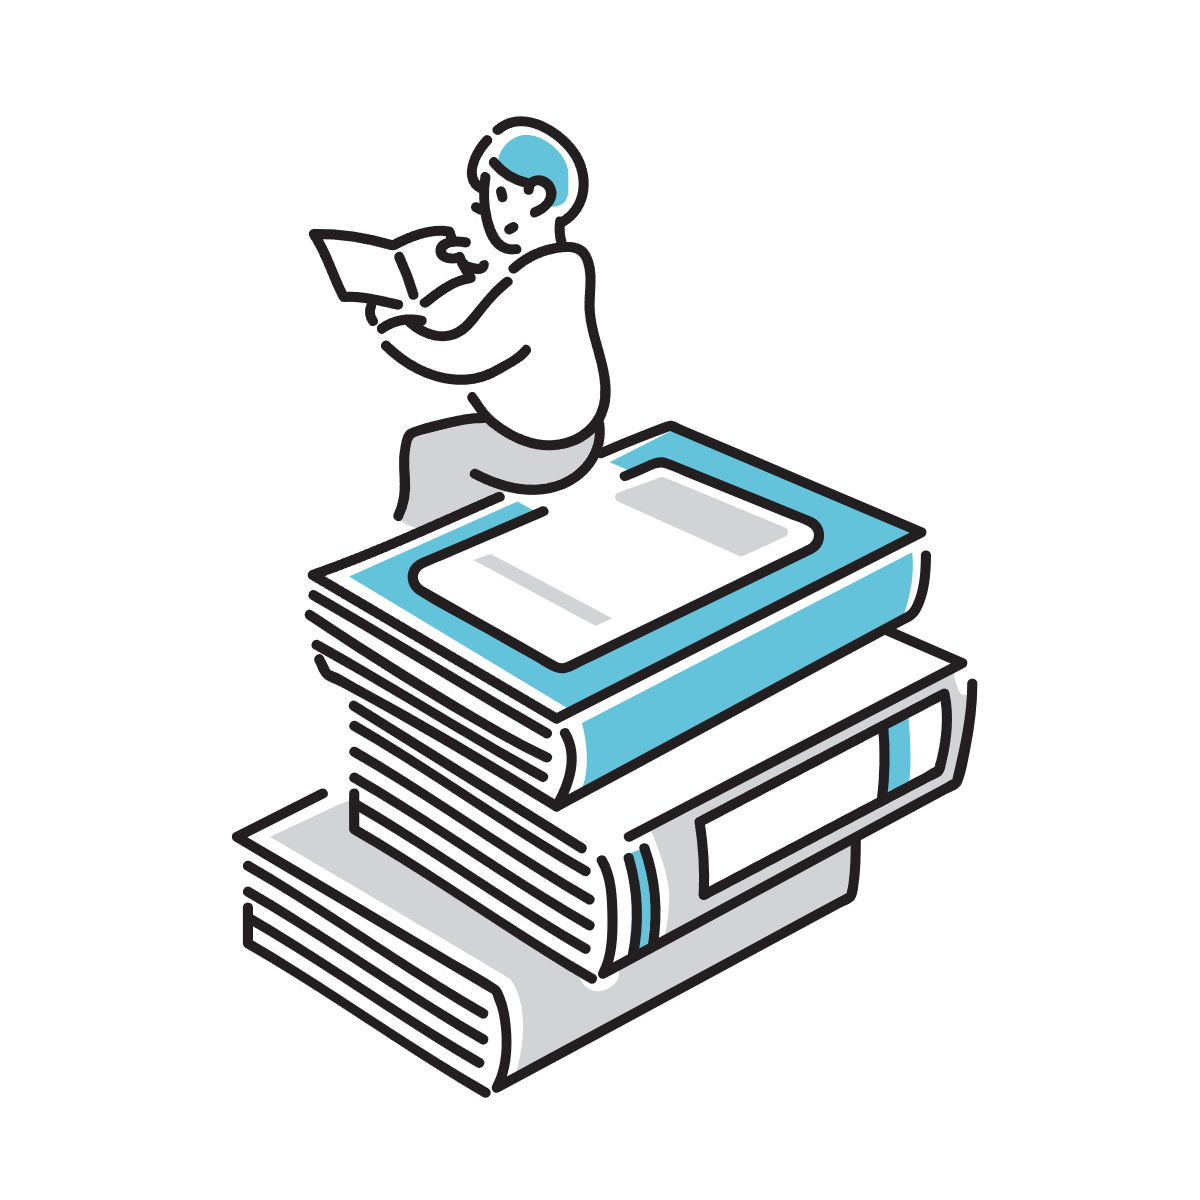
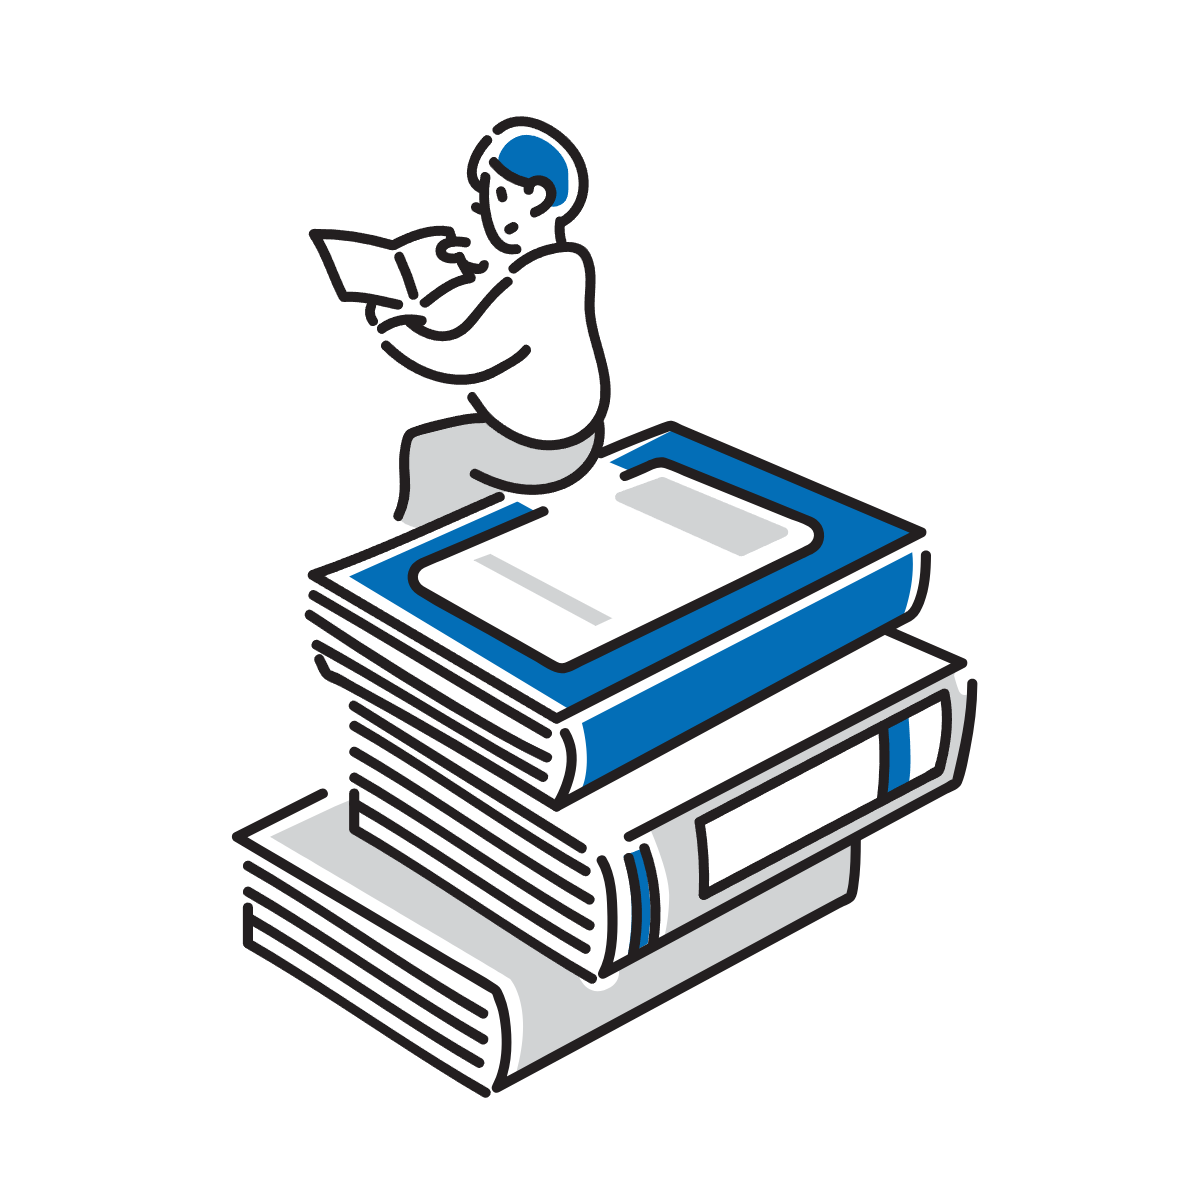
feat: Complete education section - changed assets - recreated Education & About sections for mobile responsiveness - changed asset colors to fit the color palette

diff --git a/src/lib/components/EducationSection.svelte b/src/lib/components/EducationSection.svelte
@@ -1,45 +1,52 @@
 <script>
     import Section from "$lib/components/Section.svelte";
     import EducationCard from "./EducationCard.svelte";
-    import Image from "$lib/assets/illust/loosedrawing/1150.png?w=450&h=400&format=webp"
+    import DLSUImage from "$lib/assets/schools/dlsu.png?w=300&h=300&format=webp";
+    import CKSCImage from "$lib/assets/schools/cksc.png?w=300&h=300&format=webp";
+    import StudentImage from "$lib/assets/illust/loosedrawing/1150.png?w=500&h=600&format=webp";
 
     let educationDetails = [{
             school: "De La Salle University Manila",
-            time: "2019-2023",
-            degree: "B.S. in Computer Science Major in Software Technology",
-            type: "tertiary",
-            color: "green",
+            address: "2401 Taft Ave, Malate, Manila, 1004 Metro Manila",
+            time: "Sept 2019 - Dec 2023",
+            degree: "Bachelor of Science in Computer Science",
+            major: "Major in Software Technology",
+            image: DLSUImage,
+            color: "green-600",
         }, {
             school: "Chiang Kai Shek College",
-            time: "2008-2019",
-            degree: "Gradeschool, Junior & Senior Highschool",
-            type: "secondary",
-            color: "blue",
+            address: "1477 Narra St, Tondo, Manila, 1012 Metro Manila",
+            time: "2014 - Apr 2019",
+            degree: "Senior Highschool Diploma",
+            major: "STEM Graduate",
+            image: CKSCImage,
+            color: "blue-500",
+        }, {
+            school: "Chiang Kai Shek College",
+            address: "1274 Padre Algue St, Tondo, Manila, 1012 Metro Manila",
+            time: "2008 - 2013",
+            degree: "Gradeschool, Junior Highschool Diplomas",
+            major: "",
+            image: CKSCImage,
+            color: "blue-500",
         }
     ];
 </script>
 
 <Section id="education">
-    <div class="h-fit w-full pt-16 pb-8 bg-bunker-950">
-        <h1 class="h-fit w-full pt-8 pb-16 text-center text-4xl font-bold text-white">Education</h1>
-        <div class="h-fit w-full flex justify-center">
-
-            <div class="flex flex-col items-center pr-20">
-                {#each educationDetails as educationDetail} 
-                    <EducationCard {educationDetail}/>
-                 {/each}
-            </div>
-
-            <div class="justify-center items-center hidden lg:flex">
-                <img class="bg-white ml-16 shadow-lg rounded-lg" src={Image} alt="Education">
-            </div>
-
+    <div class="h-auto w-screen py-16">
+        <div class="bg-matisse-500 flex justify-center opacity-90" data-aos="fade-up" data-aos-offset="300">
+            <h1 class="p-5 text-center text-4xl font-bold text-white">Education</h1>
         </div>
-    </div>
+        <div class="flex lg:grid flex-col grid-cols-7 gap-8">  
+            <div class="col-span-2 col-start-2 flex justify-center items-center">
+                <img class="shadow-sm p-4" src={StudentImage} alt="Student" data-aos="fade-up" data-aos-delay="100" data-aos-offset="300">
+            </div>
+            <div class="col-span-4 flex flex-col justify-center items-center xl:items-start p-8">
+                {#each educationDetails as educationDetail, i} 
+                    <EducationCard {educationDetail} delay={i}/>
+                {/each}
+            </div>
+        </div>
+    </div> 
 </Section>
-
-<style>
-    /* div {
-        border: 4px dotted red;
-    } */
-</style>

diff --git a/src/lib/components/AboutSection.svelte b/src/lib/components/AboutSection.svelte
@@ -5,19 +5,18 @@
 </script>
 
 <Section id="about">
-    <div class="pt-16 h-fit w-fit bg-white">
-        <div class="lg:h-[65vh] sm:h-fit w-full lg:grid sm:flex lg:grid-rows-1 lg:grid-cols-7 sm:flex-col-reverse lg:border-t-4 lg:border-b-4 mb-8 border-dotted border-gray-400">
-            <div class="h-full col-span-2 col-start-2 flex justify-center items-center sm:mt-4">
-                <img class="rounded-lg shadow-md" src={Image} alt="test">
-            </div>
-            <div class="h-full col-span-4 flex flex-col flex-end justify-center items-left">
-                <h1 class="h-fit w-3/4 p-4 ml-16 border-b-4 text-4xl text-left font-bold" data-aos="fade-up">About Me</h1>
-                <p class="h-fit w-3/4 ml-16 p-4 text-gray-700" data-aos="fade-up" data-aos-delay="250">
-                    Hello! I'm a dedicated developer passionate about crafting exceptional digital experiences. 
-                    With expertise in both front-end and back-end technologies, I thrive on challenges and value collaboration. 
-                    Let's create something amazing together!
-                </p>
-            </div>  
+    <div class="flex flex-col md:flex-row justify-center items-center py-16">
+        <img class="h-auto md:h-64 lg:h-auto m-8" src={Image} alt="test">
+        <div class="h-fit w-auto lg:w-[40vw] mx-4 lg:ml-16 lg:mr-8 my-8">
+            <h1 class="p-4 text-4xl text-left font-bold border-b-4" data-aos="fade-up">About Me</h1>
+            <p class="p-4 text-gray-700" data-aos="fade-up" data-aos-delay="250">
+               Hello! I'm a dedicated developer passionate about crafting exceptional digital experiences. 
+               With expertise in both front-end and back-end technologies, I thrive on challenges and value collaboration. 
+               Let's create something amazing together! asdasdasasd asdas dasd asd as dass
+            </p>
+            <p class="px-4 pb-4 text-gray-700" data-aos="fade-up" data-aos-delay="350"> 
+                I have have experience in blah blah blah...
+            </p>
         </div>
     </div>
 </Section>

diff --git a/src/lib/components/EducationCard.svelte b/src/lib/components/EducationCard.svelte
@@ -1,20 +1,18 @@
 <script>
-    import DLSUImage from "$lib/assets/schools/dlsu.png?w=250&h=250&format=webp";
-    import CKSCImage from "$lib/assets/schools/cksc.png?w=250&h=250&format=webp"
-
+    export let delay = 1;
     export let educationDetail;
+    delay = delay * 150;
 </script>
 
-<div class="flex flex-col my-2 items-center border border-gray-200 rounded-lg shadow md:flex-row md:max-w-xl hover:bg-gray-200 bg-white" data-aos="fade-up" data-aos-delay="250">
-    <div class="flex flex-col justify-between p-4 leading-normal w-96">
-        <h5 class="mb-2 text-2xl font-bold tracking-tight">{educationDetail.school}</h5>
-        <p class="mb-2">{educationDetail.time}</p>
-        <p class="mb-2">{educationDetail.degree}</p>
+<div class="w-full lg:w-3/5 bg-white rounded-tr-3xl rounded-bl-xl shadow-lg mb-4 border-t-8 border-{educationDetail.color}" data-aos="fade-right" data-aos-delay={delay} data-aos-offset="300">
+    <div class="flex flex-col p-4 w-full">
+        <div class="flex justify-between">
+            <h5 class="text-xl font-bold">{educationDetail.school}</h5>
+            <img class="max-h-8 max-w-8 pointer-events-none select-none" src={educationDetail.image} alt="icon">
+        </div>
+        <!-- <p class="text-gray-600 mt-2">{educationDetail.address}</p> -->
+        <p class="text-gray-600 mb-2">{educationDetail.time}</p>
+        <p class="text-gray-600">{educationDetail.degree}</p>
+        <p class="text-gray-600">{educationDetail.major}</p>
     </div>
-
-    {#if educationDetail.type === 'tertiary'}
-        <img class="object-cover w-full rounded-t-lg h-80 md:h-auto md:w-48 md:rounded-none md:rounded-s-lg" src={DLSUImage} alt="De La Salle University">
-    {:else}
-        <img class="object-cover w-full rounded-t-lg h-80 md:h-auto md:w-48 md:rounded-none md:rounded-s-lg" src={CKSCImage} alt="Chiang Kai Shek College">
-    {/if}
-</div>  
+</div>

diff --git a/src/lib/components/NavButton.svelte b/src/lib/components/NavButton.svelte
@@ -1,13 +1,15 @@
 <script>
-     export let isMenu = false;
-     export let data;
+    export let open;
+    export let isMenu = false;
+    export let data;
+
+    function toggleMenu() { open = !open; };
 </script>
 
 {#if isMenu}
-    <a class="h-full w-auto p-4 rounded-sm text-left hover:bg-gray-200 active:bg-gray-300 active:-translate-y-0.5 active:font-bold active:border-l-blue-500 border-l-4 bg-white opacity-95" href={data.link}>{data.title}</a>
+    <a class="h-full w-auto p-4 rounded-sm text-left hover:bg-gray-200 active:bg-gray-300 active:-translate-y-0.5 active:font-bold active:border-l-blue-500 border-l-4 bg-white opacity-95" href={data.link} on:click={toggleMenu}>{data.title}</a>
 {:else}
     <a class="h-full w-auto p-4 rounded-sm text-center hover:bg-gray-200 active:bg-gray-300 active:-translate-y-0.5 active:font-bold" href={data.link}>{data.title}</a>
 {/if}
-
 
 

diff --git a/src/lib/components/LeadSection.svelte b/src/lib/components/LeadSection.svelte
@@ -4,7 +4,7 @@
 </script>
 
 <Section id="lead">
-    <div class="bg-illia-plakhuta bg-cover bg-center h-[50vh] xl:h-screen">
+    <div class="bg-illia-plakhuta bg-cover bg-center h-[60vh] xl:h-screen">
         <div class="h-full w-auto flex flex-col justify-center items-center">
             <h1 class="text-white text-4xl md:text-6xl lg:text-8xl my-2 animate-fade-up animate-ease-out animate-delay-[100ms] font-bold">Steven Castro</h1>
             <h2 class="text-white text-2xl md:text-3xl lg:text-4xl mb-4 animate-fade-up animate-ease-out animate-delay-[250ms]">Programmer</h2>
@@ -12,13 +12,3 @@
         </div>
     </div>
 </Section>
-
-<style>
-    /* div {
-        border: 2px dotted red;
-    }
-
-    div > div {
-        border: 2px dotted blue;
-    } */
-</style>

diff --git a/tailwind.config.js b/tailwind.config.js
@@ -25,6 +25,19 @@ export default {
           '900': '#3b3842',
           '950': '#1a191d',
         },
+        'matisse': {
+          '50': '#f0f8ff',
+          '100': '#e0f0fe',
+          '200': '#bae2fd',
+          '300': '#7ecbfb',
+          '400': '#39b1f7',
+          '500': '#0f96e8',
+          '600': '#036eb7',
+          '700': '#045fa0',
+          '800': '#085184',
+          '900': '#0d446d',
+          '950': '#082b49',
+       },      
       }
     },
   },

diff --git a/src/lib/components/ExperienceCard.svelte b/src/lib/components/ExperienceCard.svelte
@@ -1,13 +1,8 @@
 <script>
-    import Image from "$lib/assets/illust/loosedrawing/1222.png?w=200&h=200&format=webp"
 </script>?
 
 <div class="h-fit w-fit p-4 m-4 bg-slate-400 flex">
-    <img class="m-4" src={Image} alt="Experience">
-    <div class="h-full">
-        <h2>De La Salle University Manila</h2>
-        <p>ASDASDSD</p>
-    </div>
+
 </div>
 
 

diff --git a/src/lib/components/Menu.svelte b/src/lib/components/Menu.svelte
@@ -8,10 +8,6 @@
 {#if open}
     <!-- <div class="h-16 w-screen invisible"></div> -->
     {#each navOptions as navOption}
-        <NavButton data={navOption} isMenu=true/>
+        <NavButton data={navOption} isMenu=true bind:open/>
     {/each}
 {/if}
-
-<style>
-
-</style>

diff --git a/src/routes/+page.svelte b/src/routes/+page.svelte
@@ -7,7 +7,9 @@
 
 <LeadSection/>
 <AboutSection/>
-<!-- <EducationSection/> -->
+<EducationSection/>
+<!-- Skill -->
+
 <!-- <ExperienceSection/> -->
 <!-- <AboutSection/>
 

diff --git a/src/routes/+layout.svelte b/src/routes/+layout.svelte
@@ -7,7 +7,7 @@
     <NavBar/>
     <slot></slot>
     <footer>
-        <h1>Footer</h1>
+        <div class="h-[50vh] bg-blue-100">Footer</div>
     </footer>
 </div>
 

diff --git a/src/lib/components/NavBar.svelte b/src/lib/components/NavBar.svelte
@@ -30,6 +30,3 @@
         </div>
     </div>
 </nav>
-
-
-
